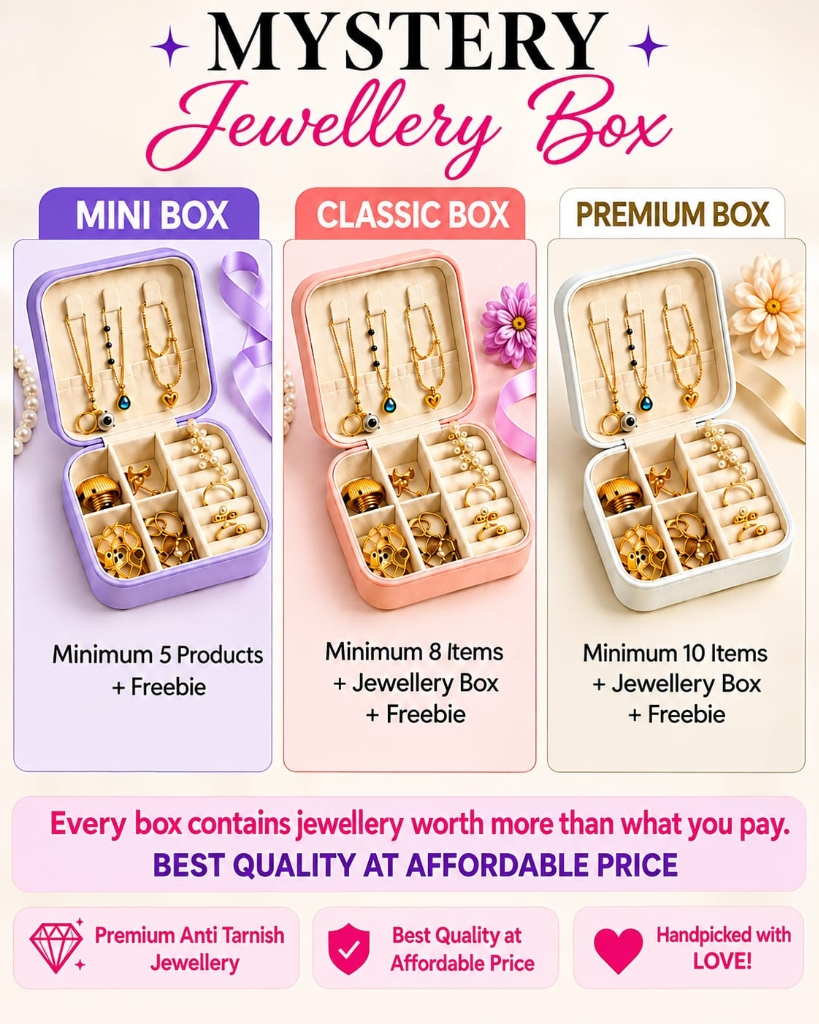
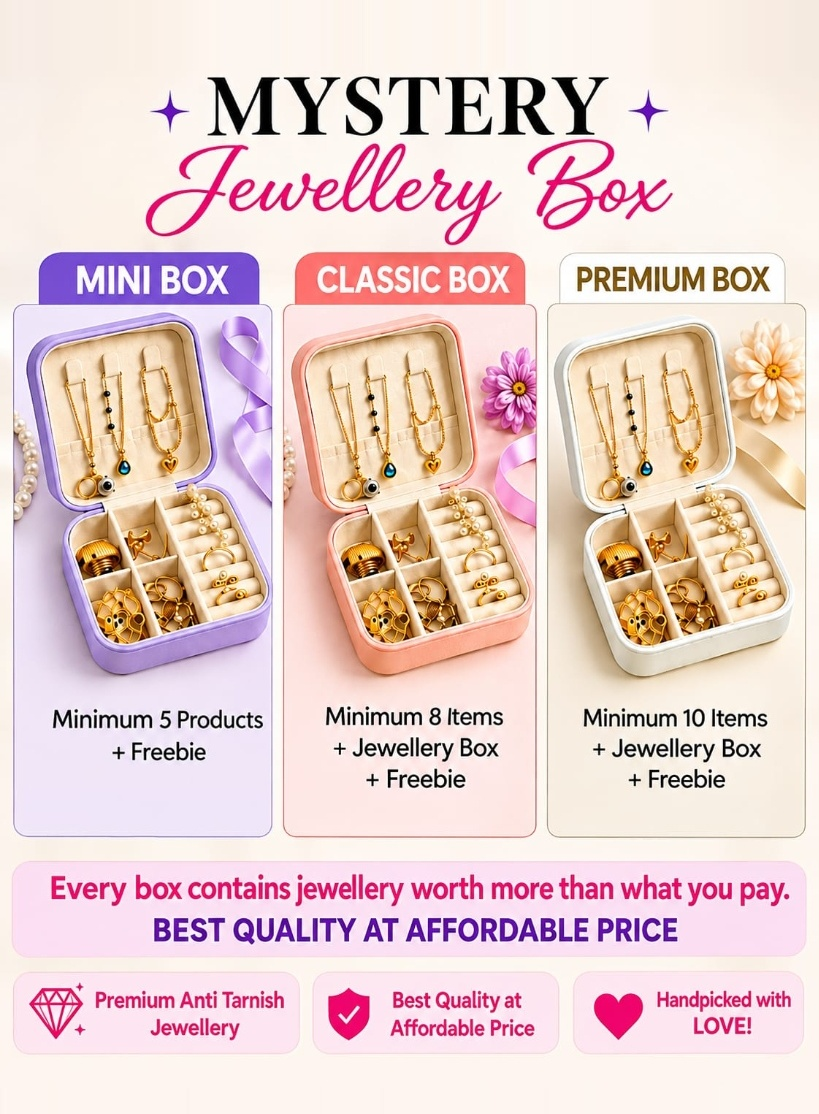
fix: add safe top margin and mobile inset padding to prevent mystery box text clipping

diff --git a/frontend/src/pages/Home/Home.css b/frontend/src/pages/Home/Home.css
@@ -79,7 +79,7 @@
   transition: transform var(--transition-slow);
 }
 
-.hero__image-wrap:hover .hero__image {
+.hero__image-wrap:hover .hero__image:not(.hero__image--contain) {
   transform: scale(1.03);
 }
 
@@ -140,6 +140,8 @@
 .hero__image--contain {
   object-fit: contain !important;
   background: #faf6f0;
+  padding: 10px 8px;
+  box-sizing: border-box;
 }
 
 /* Luxury Navigation Arrows */
@@ -218,6 +220,9 @@
 }
 
 @media (max-width: 640px) {
+  .hero__image--contain {
+    padding: 14px 10px;
+  }
   .hero__carousel-arrow {
     width: 32px;
     height: 32px;
